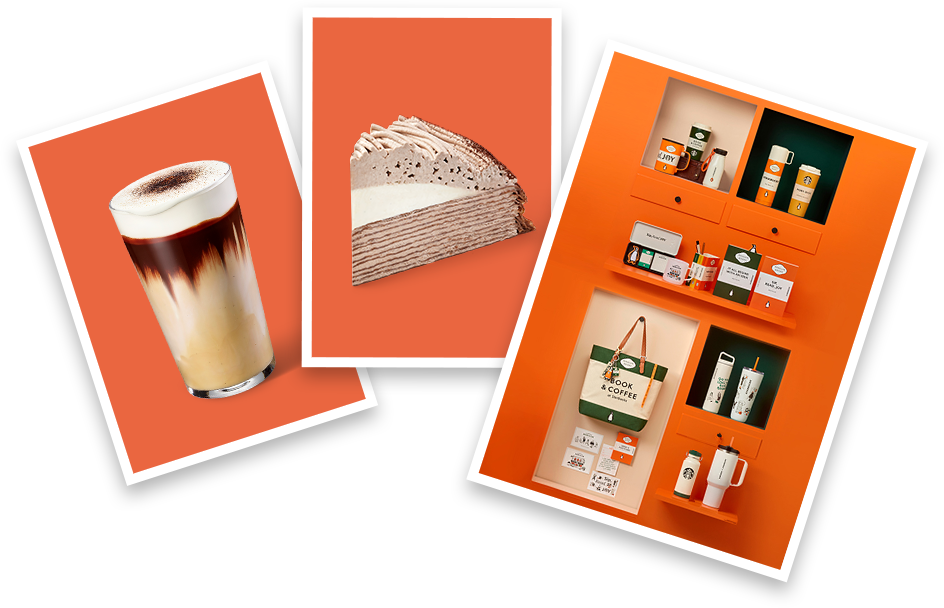
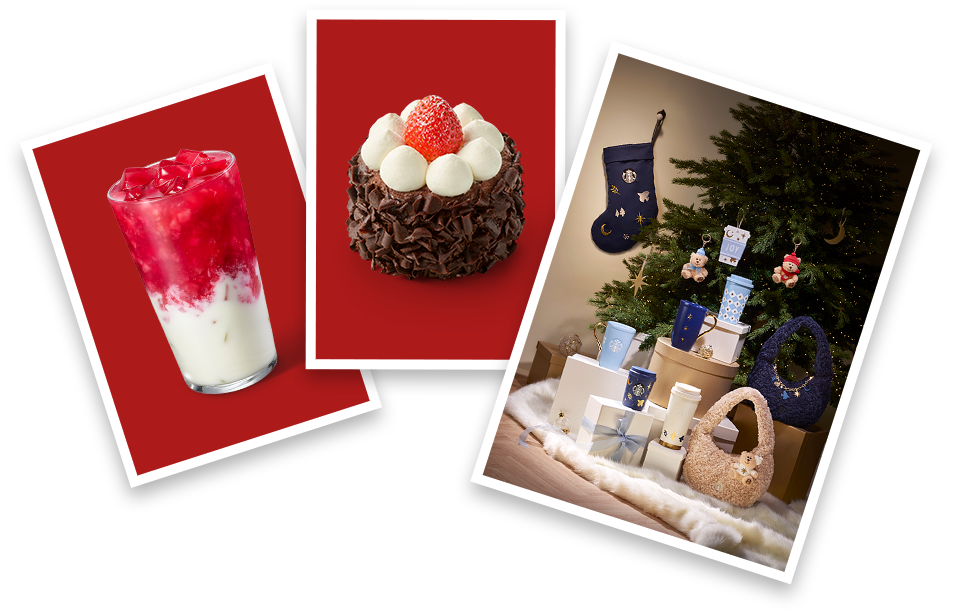
20241207 겨울프로모션 수정

diff --git a/css/main.css b/css/main.css
@@ -805,7 +805,7 @@ header .badges .material-icons {
 /* reserve */
 
 .reserve {
-    background: url(../images/reserve_bg_pc.jpg) no-repeat center / cover;
+    background: url(../images/reserve_bg.png) no-repeat center / cover;
     position: relative;
     overflow: hidden;
 }
@@ -816,25 +816,26 @@ header .badges .material-icons {
 }
 
 .reserve .coffee {
-    max-width: none;
+    display: block;
     position: absolute;
     top: 0;
-    right: 50%;
-    transform: translateX(50%);
+    left: 50%;
+    transform: translateX(-50%);
 }
 
 .reserve .txt_group {
     position: absolute;
-    top: 20%;
-    left: 20%;
+    top: 14%;
+    left: 30%;
+    transform: translateX(-50%);
+    display: flex;
+    flex-direction: column;
+    align-items: center;
 }
 
 
 .reserve .txt_group .more {
-    position: absolute;
-    left: 50%;
-    transform: translateX(-50%);
-    margin-top: 30px;
+    margin-top: 50px;
 }
 
 
@@ -842,7 +843,7 @@ header .badges .material-icons {
 
 /* favorite */
 .favorite {
-    background: url(../images/favorite_bg.png) no-repeat center / cover;
+    background: url(../images/favorite_bg.jpg) no-repeat center / cover;
     background-attachment: fixed;
     position: relative;
     overflow: hidden;
@@ -880,7 +881,7 @@ header .badges .material-icons {
     top: 50%;
     right: -15%;
     transform: translateY(-50%);
-    width: 60%;
+    width: 70%;
 }
 
 
@@ -1535,7 +1536,7 @@ footer .corp {
 
 
     .reserve {
-        background: url(../images/reserve_bg_m.jpg) no-repeat center / cover;
+        background: url(../images/reserve_bg_mo.jpg) no-repeat center / cover;
     }
 
     .reserve .inner {
@@ -1549,29 +1550,30 @@ footer .corp {
     }
 
     .reserve .txt_group {
-        position: static;
+        width: 100%;
+        transform: translateX(0);
+        left: 0;
+        top: 85%;
     }
 
     .reserve .txt_group .more {
         width: 100%;
-        bottom: 10%;
+        margin: 0;
+
     }
 
     .reserve .txt_group .more .btn {
         width: 30%;
         margin: 0 auto;
         padding: 3% 0;
-        color: #fff;
-        border: 2px solid #fff;
     }
 
     .reserve .txt_group .more .btn:hover {
         color: #13362d;
-        background-color: #fff;
     }
 
     .favorite {
-        background: url(../images/favorite_bg_m.png) no-repeat center / cover;
+        background: url(../images/favorite_bg_mo.jpg) no-repeat center / cover;
 
     }
 

diff --git a/index.html b/index.html
@@ -591,9 +591,9 @@
     <section class="reserve scroll-spy">
         <h3>리저브</h3>
         <div class="inner">
-            <img src="./images/reserve_coffee_bg_pc.png" class="coffee back-position" alt="coffee">
+            <img src="./images/reserve_coffee_bg.png" class="coffee back-position" alt="coffee">
             <div class="txt_group">
-                <img src="./images/reserve_logo_pc.png" class="coffee_txt" alt="txt">
+                <img src="./images/reserve_logo.png" class="coffee_txt" alt="txt">
                 <div class="more">
                     <a href="#" class="btn btn--beige">자세히보기</a>
                 </div>
@@ -608,8 +608,8 @@
                 <img src="./images/favorite_text1.png" class="pick back-position to-right delay0" alt="favorite">
                 <img src="./images/favorite_text2.png" class="pick_txt back-position to-right delay1" alt="txt">
 
-                <img src="./images/favorite_text1_m.png" class="pick_txt1_m back-position to-right delay1" alt="txt">
-                <img src="./images/favorite_text2_m.png" class="pick_txt1_m back-position to-right delay1" alt="txt">
+                <img src="./images/favorite_text1_mo.png" class="pick_txt1_m back-position to-right delay1" alt="txt">
+                <img src="./images/favorite_text2_mo.png" class="pick_txt1_m back-position to-right delay1" alt="txt">
 
 
                 <div class="more back-position to-right delay2">
